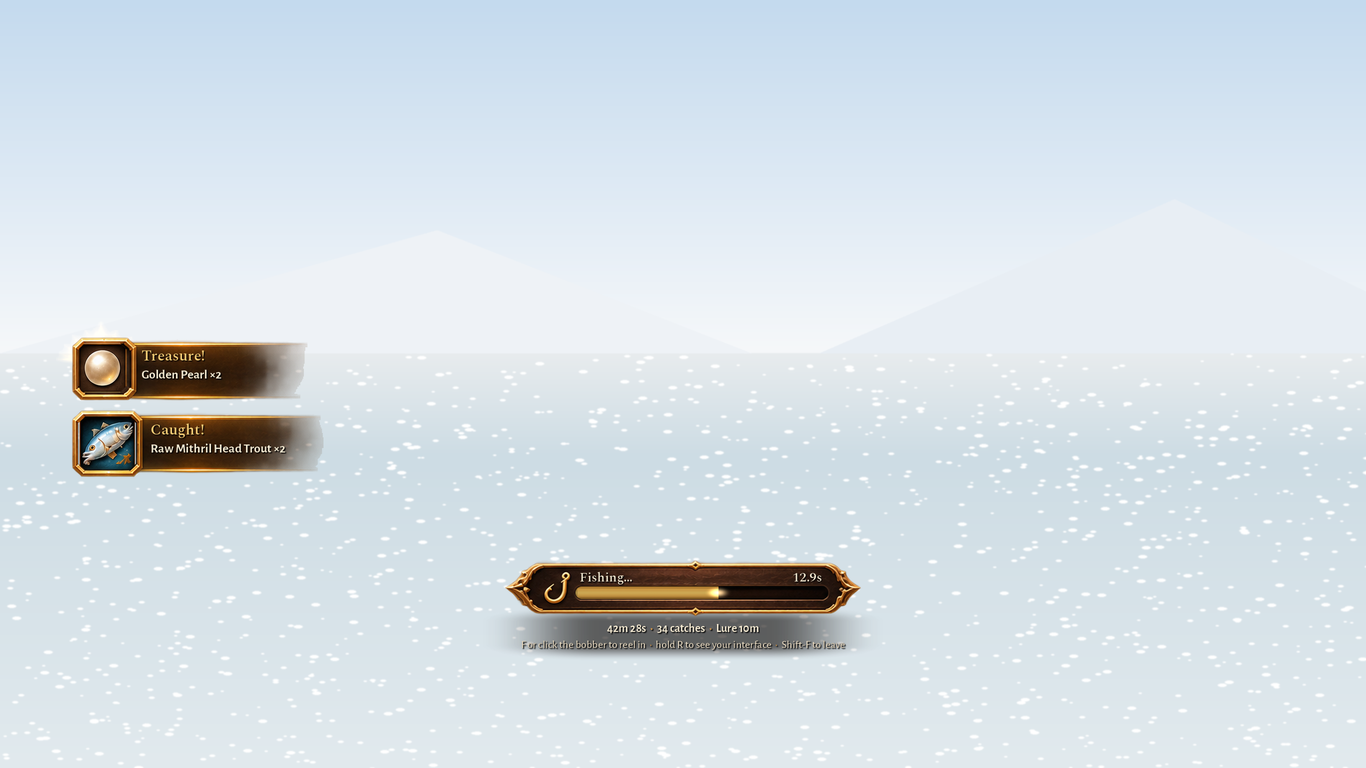
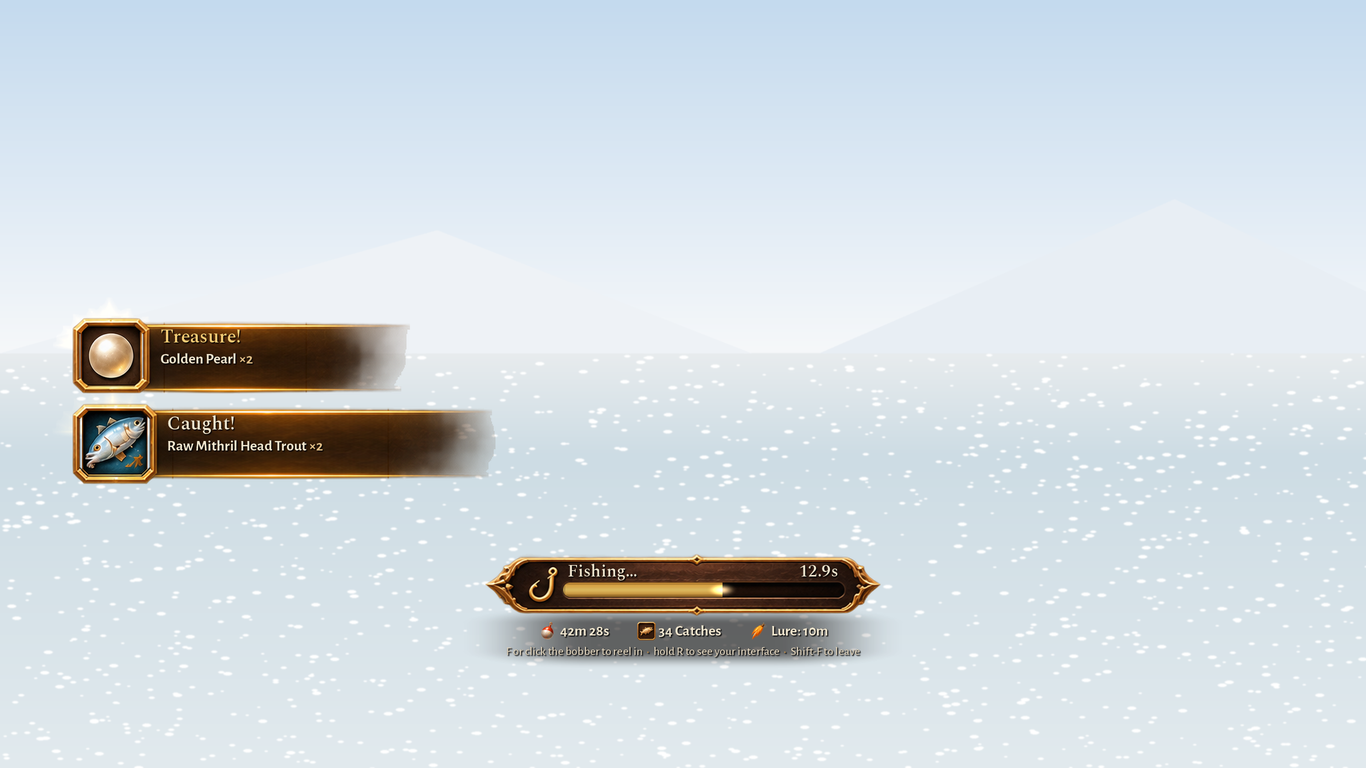
docs(fishing): mockup comparison and refreshed captures
docs/evidence/fishing-stage-2 gains compare-mockup.png (each HUD piece beside
the approved mockup's) and re-rendered captures, and its README now says
what matches, what differs on purpose and what follows from the supplied
art. docs/fishing.md describes the emblem, the framed icons, the value area
and the lengthening notification band.

Claude-Session: https://claude.ai/code/session_011rXhRkSPgtMPEY416hYEzp

Changed region(s): [[0.0307, 0.4062, 0.369, 0.6562], [0.3382, 0.7188, 0.6457, 0.875]]

diff --git a/docs/fishing.md b/docs/fishing.md
@@ -220,15 +220,18 @@ and EllesmereUI's fishing feature installed to check that they coexist.
 
 How fishing looks while you fish with TwichUI. **Nothing in it has been checked in the real client**: every claim is
 unit-tested (`tests/test_fishing_present.lua`, `tests/test_fishing_hud.lua`, `tests/test_fishing_art.py`), reviewed in offline
-captures ([docs/evidence/fishing-stage-2](evidence/fishing-stage-2/README.md)), or not tested.
+captures ([docs/evidence/fishing-stage-2](evidence/fishing-stage-2/README.md), including a piece-by-piece comparison with the
+approved mockup), or not tested.
 
 ### Presentations (`/tui fish mode immersive|compact|classic`)
 
-| | Camera | Interface faded | Cast bar | Catch list | Notifications |
-|---|---|---|---|---|---|
-| `immersive` (default) | yes | yes | yes | yes | yes |
-| `compact` | | | yes | | yes |
-| `classic` | | | | | |
+| | Camera | Interface faded | Cast bar | Catch list | Notifications | Emblem |
+|---|---|---|---|---|---|---|
+| `immersive` (default) | yes | yes | yes | yes | yes | yes |
+| `compact` | | | yes | | yes | |
+| `classic` | | | | | | |
+
+The emblem is the texture pack's "TwichUI Fishing" logo, at the top left as in the approved mockup (`/tui fish brand off`).
 
 A part's own switch (`camera on|off`, `fade on|off`, `list on|off`, `toasts on|off`) only ever takes that part away.
 Classic is Stage 1 alone: the key fishes, nothing more is drawn.
@@ -292,7 +295,8 @@ addon at login, as the fishing key does.
 
 ### Cast bar (`CastBar.lua`)
 
-- **Look:** a compact walnut-and-bronze bar, 360 units wide at the bottom middle (`castbar.x/y/scale`; `/tui fish move`).
+- **Look:** the texture pack's walnut-and-bronze bar, 400 units wide at the bottom middle (`castbar.x/y/scale`;
+  `/tui fish move`), with a warm gold fill in its trough.
 - **States, from events only:**
   - `Ready to cast`.
   - `Casting…`, on `UNIT_SPELLCAST_SENT` with a Fishing spell.
@@ -301,7 +305,8 @@ addon at login, as the fishing key does.
   - The results: `Caught!`, `Nothing on the line`, `Interrupted` and `Couldn't cast`.
 - **No bite signal:** the timer times the line. The game gives no bite signal, and none is shown or guessed.
 - **Under the bar:**
-  - The session's length and catches, and the lure's time left.
+  - The session's length and catches, and the lure's time left, each after its glyph from the texture pack (the bobber, the
+    fish mark, the feather), as in the mockup.
   - The estimated value, only from a connected valuation.
   - A warning when your own gear is still to go back on (and the key that does it), or when the saved data is held.
     Otherwise the prompts: your fishing key, the reveal key and how to leave, with gamepad buttons named when a gamepad is
@@ -309,8 +314,13 @@ addon at login, as the fishing key does.
 
 ### Catch list (`CatchList.lua`)
 
-- **Look:** on the right, drawn straight over the world: the game's item icons in a thin bronze rim, and ivory type with a
-  soft shadow. Under it is a faint, feathered warm shade with no edge, so it reads over snow as well as at night.
+- **Look:** on the right, drawn straight over the world, as in the approved mockup.
+  - "Today's Catch" (or "This Session's Catch" for a session that began on an earlier day) and how long it has lasted.
+  - The game's item icons in the texture pack's bronze icon frame, with the quantity on the icon's corner.
+  - Ivory names, warm "N caught" lines and a large "×N".
+  - The pack's fine bronze rule under the headings and, faintly, between the rows.
+  - Under it, a faint feathered warm shade with no edge, so it reads over snow as well as at night.
+- **Value area:** it keeps its place. With no valuation it says "Not available yet" (`list value hide` leaves it out).
 - **Data:** from `API.Session()` and `API.Provenance("session")` only.
   - Catches: what the line brought up, with `N caught` and `xN`. Sorted by `list sort count|recent|name`. At most
     `list rows` rows (3 to 12, default 6), then `+N more kinds`.
@@ -324,9 +334,11 @@ addon at login, as the fishing key does.
 ### Notifications (`Toast.lua`)
 
 - **Kinds, for each confirmed item (Stage 1's `ITEM`):**
-  - `Caught!` with the item's own icon, name and quantity.
+  - `Caught!` with the item's own icon, name and quantity, and warm light behind the frame.
   - `Treasure!`, a warmer frame with a gold glint, for what came out of a fishing container and for items the game rates
     rare or better. Nothing else is called a treasure.
+- **Art:** the pack's notification frame and band in three slices (frame, band and fading end). The band lengthens for a
+  long name, so the frame and its end are never stretched.
 - **Placement:** left of the middle, clear of the bobber and the cast bar (`toast.x/y/scale`).
 - **Merging:** the same item again while its notice is up adds to it (`x3`). At most three show at once, and up to six
   wait.
@@ -346,7 +358,8 @@ addon at login, as the fishing key does.
 
 ### Settings
 
-- **Saved:** `TwichUIFishingDB.config`, the new groups `present`, `camera`, `fade`, `castbar`, `list` and `toast`
+- **Saved:** `TwichUIFishingDB.config`, the new groups `present` (with `brand`), `camera`, `fade`, `castbar`, `list` (with
+  `value`) and `toast`
   (defaults in `Store.lua`; schema 1, missing values filled, no migration).
 - **Changing them:** `/tui fish help` lists the words, and `/tui fish move` drags the pieces. A change applies at once.
 - **Not yet:** a settings page is Stage 4's.
@@ -397,7 +410,8 @@ None of these has been done.
       `vibrate on`: note whether a catch pulses.
 - [ ] The cast bar's fill matches the line's real time. Check that the line's maximum is the channel's end time.
 - [ ] The catch list, the notices and their art at UI scales 0.8, 1.0 and 1.25, over bright snow or water and at night.
-      Check that the TGAs draw with clean alpha and no fringe, and that the toast wells show the item icon cleanly.
+      Check that the TGAs draw with clean alpha and no fringe, that the toast and icon-frame wells show the item icon
+      cleanly, and that a long name's notice shows no seam where the band is lengthened.
 - [ ] With EllesmereUI: its unit frames fade, its bars do not (add them with `fade add`), and its own fading still works.
       With Dialogue UI: talk to an NPC while fishing, and nothing is left faded or zoomed afterwards.
 - [ ] Run the Test Lab case `fishing.client.presentation` and keep the facts.

diff --git a/docs/evidence/fishing-stage-2/README.md b/docs/evidence/fishing-stage-2/README.md
@@ -23,6 +23,30 @@ What differs from the game:
 |---|---|
 | `immersive-bright.png`, `immersive-dark.png`, `immersive-sunset.png` | Immersive: the cast bar mid-line, the catch list on the right (catches, other treasures, totals), and a treasure notice and a catch notice |
 | `compact-*.png` | Compact: the cast bar and notices only |
-| `castbar-*.png` | The cast bar at 2x: label, seconds left from the channel's own times, amber fill, and session figures and prompts |
+| `castbar-*.png` | The cast bar at 2x: label, seconds left from the channel's own times, the warm gold fill, the session figures with the pack's glyphs (bobber, fish mark, feather), and prompts |
+| `compare-mockup.png` | The approved mockup's emblem, catch list, notification and cast bar (left) beside the same pieces of `immersive-sunset` (right) |
 
-Regenerate: `python3 tools/render_fishing_hud.py` (writes to `test-output/fishing-captures`). `SHA256SUMS` lists these files.
+## Against the approved mockup
+
+`compare-mockup.png` puts each HUD piece beside the mockup's.
+
+- **Matches:**
+  - The emblem (the pack's logo).
+  - The catch list's heading, the game icons in the pack's bronze frame with the quantity on the corner, the names, the
+    warm "N caught" lines, the large "×N", the fine rules between the rows and under the headings, and Other Treasures.
+  - The notification: the pack's frame and band, lengthened for long names, with the ivory "Caught!", the gold "×2" and the
+    warm light behind the frame.
+  - The cast bar: the pack's bar, "Fishing…" with its seconds, the warm gold fill in the trough, and the figures under it
+    with the pack's glyphs.
+- **Different on purpose:**
+  - No gold figures. "Estimated Value" says "Not available yet" until Stage 3 connects a valuation, and per-row values
+    come with it.
+  - A line of key prompts under the cast bar (`/tui fish prompts off` hides it).
+  - A faint feathered shade under the list and the bar's lines, which keeps them legible over bright scenery (see
+    `immersive-bright.png`).
+- **Different because of the supplied art:**
+  - The pack's cast bar has the hook painted in, where the mockup draws it beside the label.
+  - The pack's logo has its plaque.
+  - The treasure rows use the same bronze frame as the catches; the mockup shows them bare.
+
+Regenerate: `python3 tools/render_fishing_hud.py --compare <the approved mockup>` (writes to `test-output/fishing-captures`). `SHA256SUMS` lists these files.
